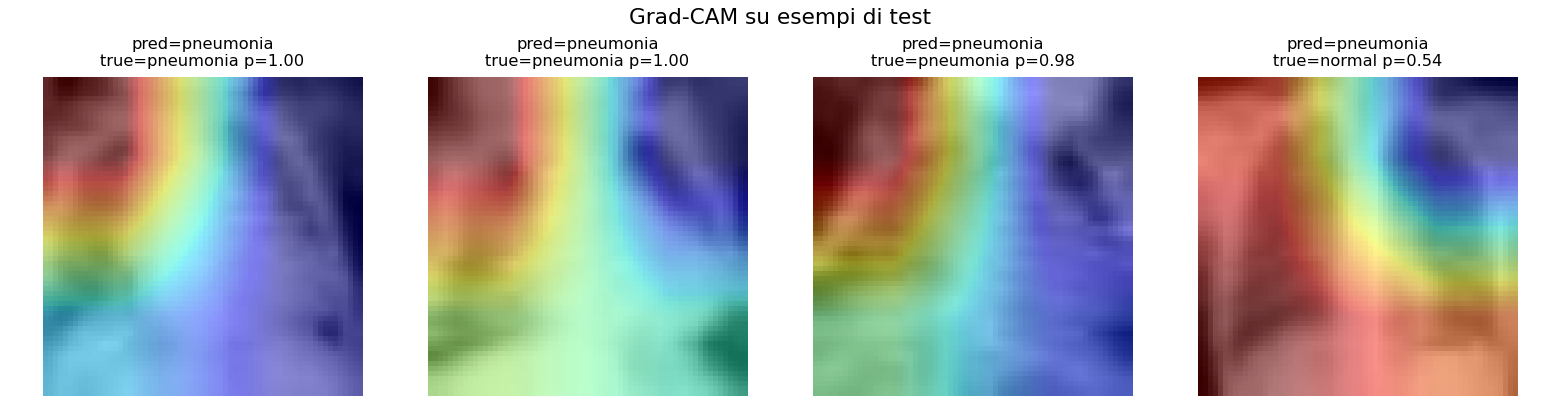
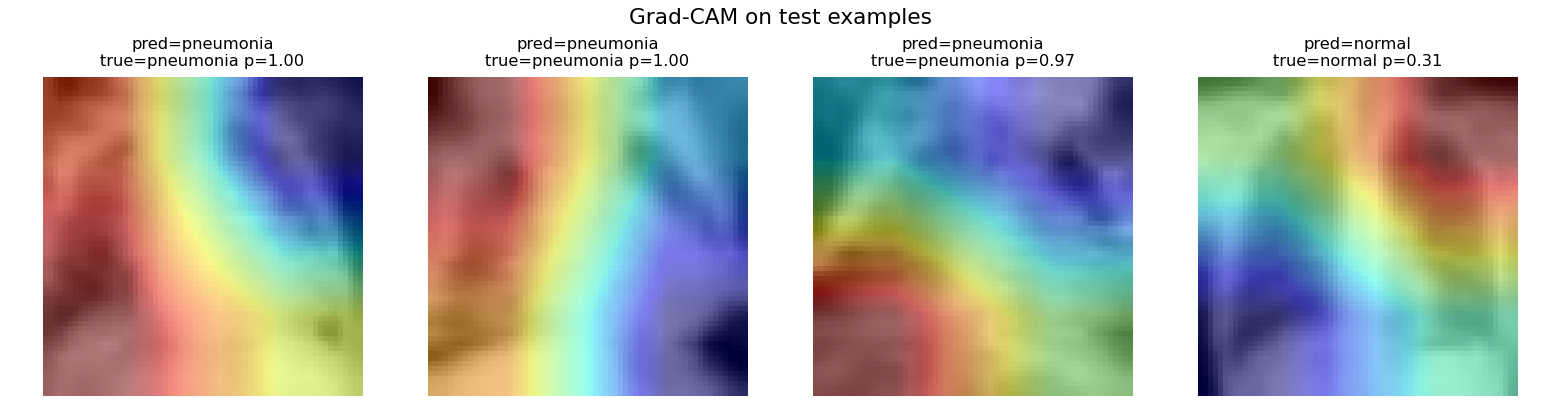
chore: regenerate results and figures with English labels; update docs to the new run

diff --git a/README.md b/README.md
@@ -67,11 +67,11 @@ uv run streamlit run app/main.py                  # interactive app
 
 | | AUROC | F1 | Accuracy |
 |--|:--:|:--:|:--:|
-| **ResNet18 (deep)** | **0.963** | 0.858 | 0.793 |
+| **ResNet18 (deep)** | **0.962** | 0.879 | 0.829 |
 | Logistic baseline | 0.927 | 0.886 | 0.841 |
 
-- **Calibration (ECE)**: 0.172 -> **0.146** (T = 1.81).
-- **Uncertainty**: 0.0033 on correct vs 0.0104 on wrong predictions, about 3.2x higher on errors.
+- **Calibration (ECE)**: 0.135 -> **0.121** (T = 1.39).
+- **Uncertainty**: 0.0030 on correct vs 0.0134 on wrong predictions, about 4.5x higher on errors.
 
 ![uncertainty](results/uncertainty_vs_correctness.png)
 

diff --git a/MODEL_CARD.md b/MODEL_CARD.md
@@ -38,11 +38,11 @@ Chest X-ray (`results/metrics.json`, n_test = 624):
 
 | Metric | ResNet-18 (deep) | Logistic baseline |
 |---|:--:|:--:|
-| AUROC | **0.963** | 0.927 |
-| F1 | 0.858 | 0.886 |
-| Accuracy @0.5 | 0.793 | 0.841 |
+| AUROC | **0.962** | 0.927 |
+| F1 | 0.879 | 0.886 |
+| Accuracy @0.5 | 0.829 | 0.841 |
 
-ECE 0.172 -> 0.146 (T = 1.81); mean uncertainty 0.0033 (correct) vs 0.0104 (wrong).
+ECE 0.135 -> 0.121 (T = 1.39); mean uncertainty 0.0030 (correct) vs 0.0134 (wrong).
 
 Brain MRI (`results/tumor_metrics.json`, n_test = 613 slices from 41 unseen patients, 13 with glioma):
 
